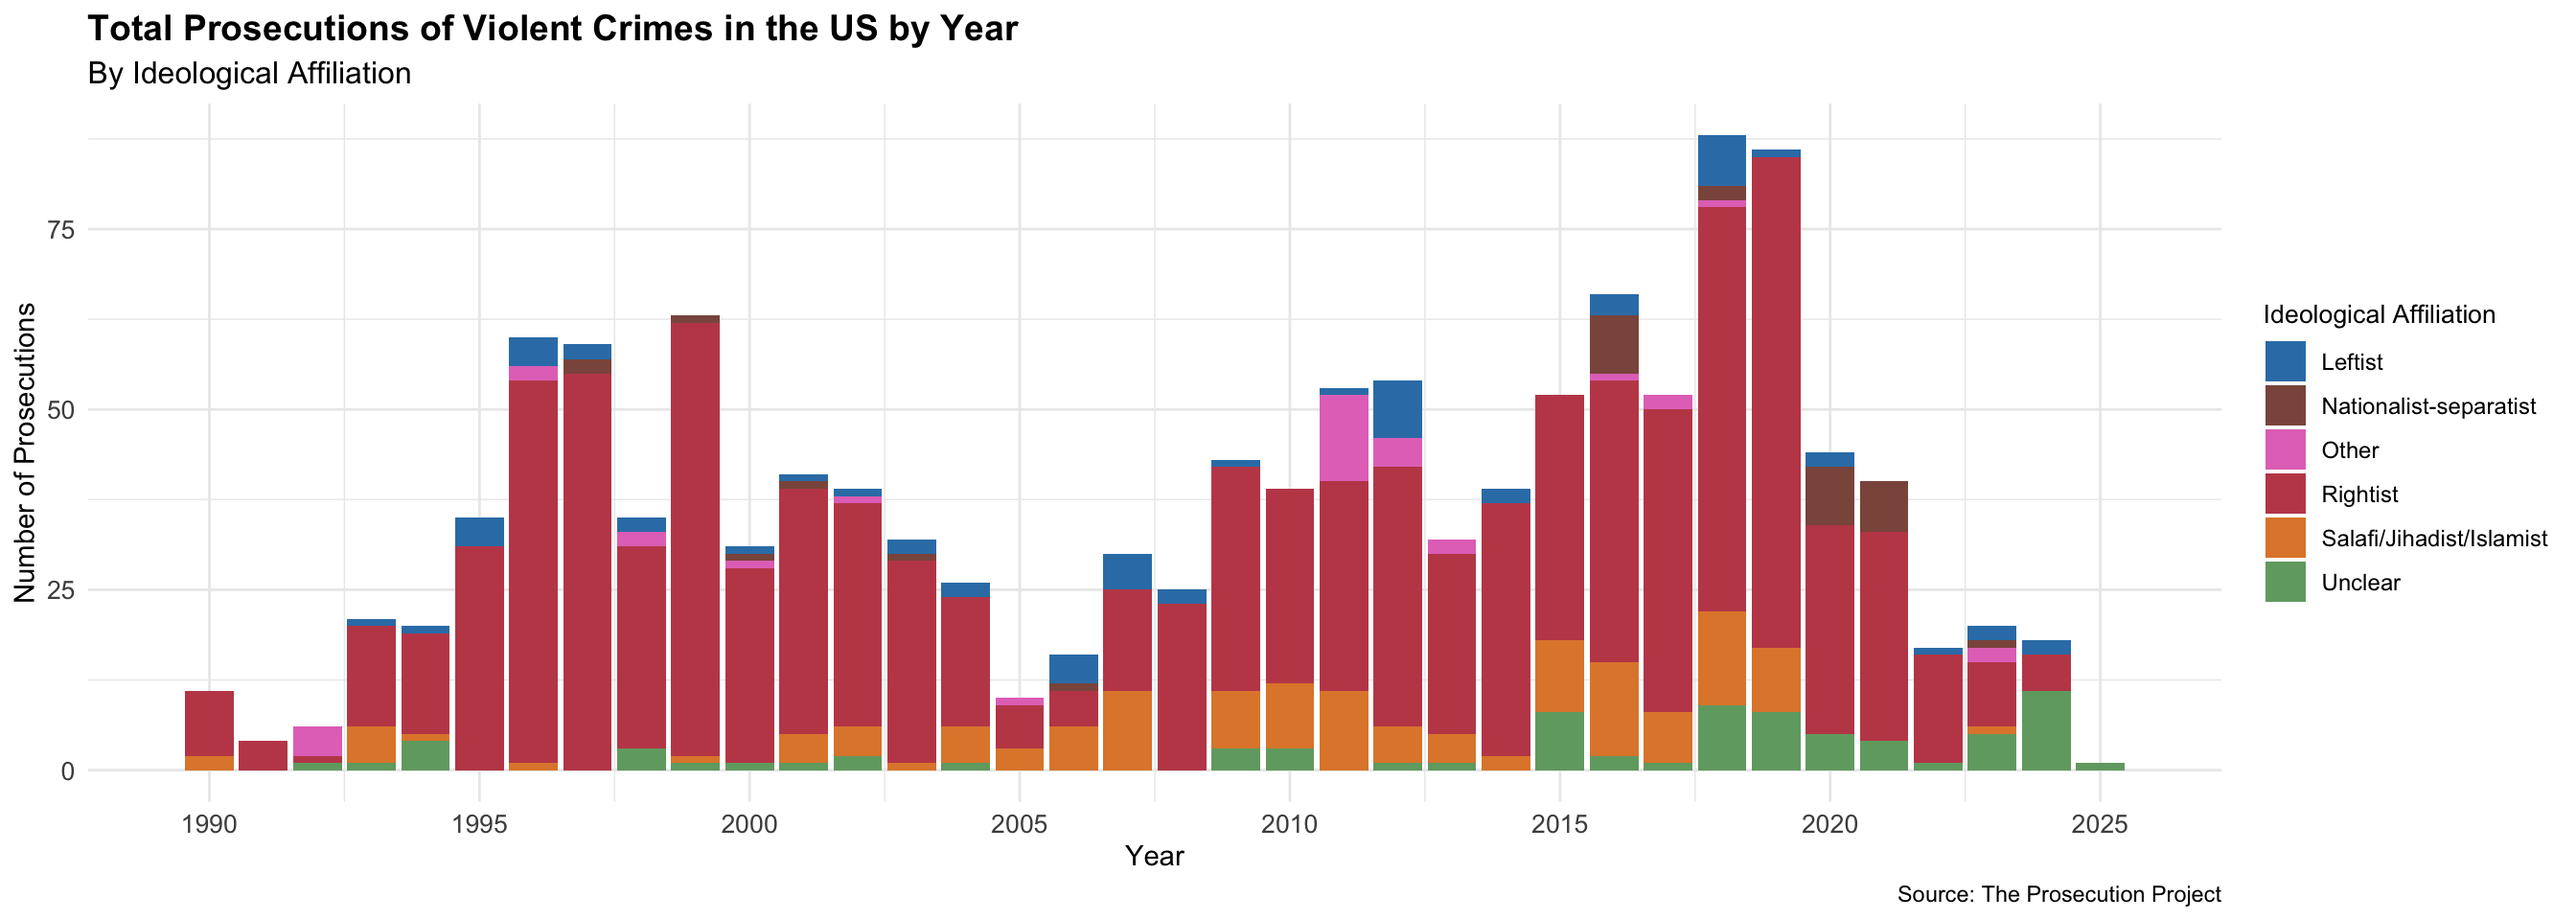
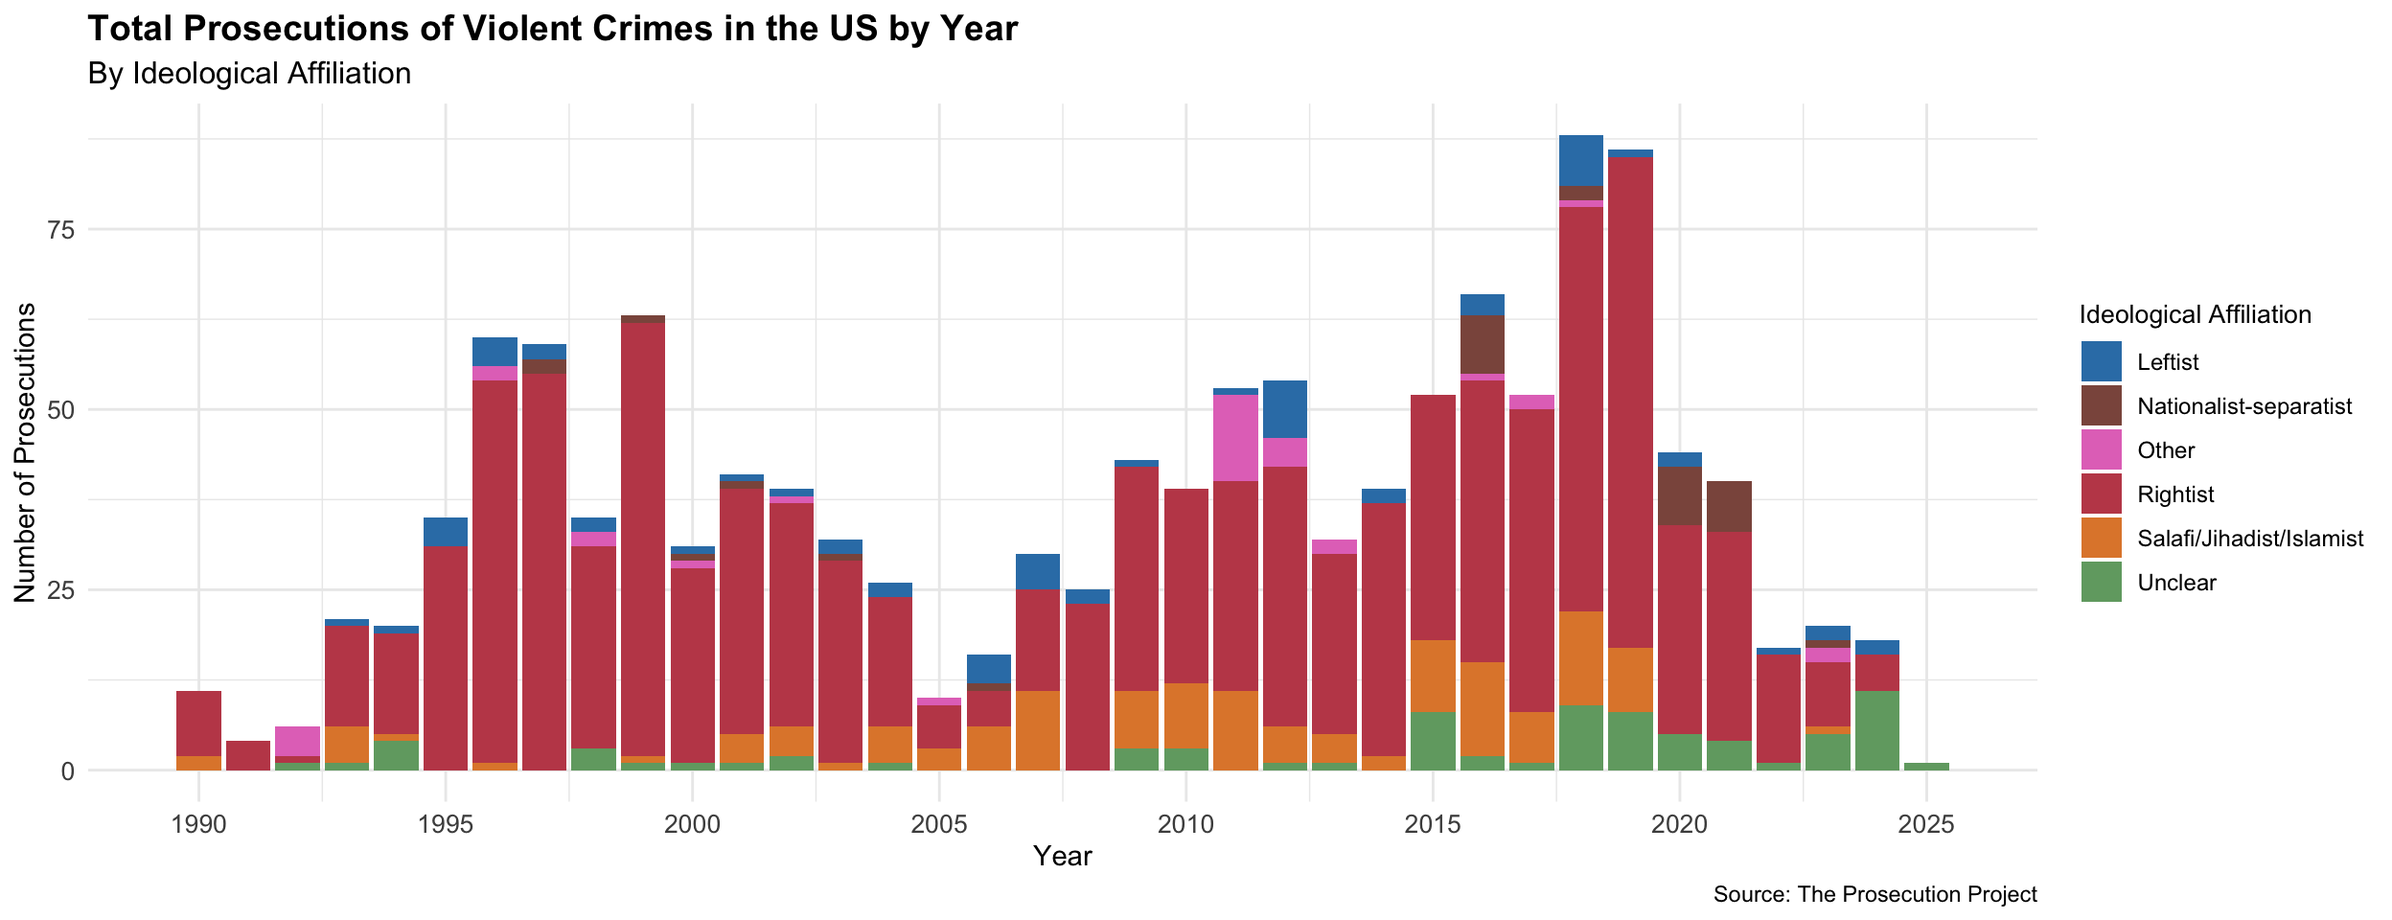
larger figure fonts

diff --git a/violence.html b/violence.html
@@ -351,7 +351,7 @@ pre > code.sourceCode > span > a:first-child::before { text-decoration: underlin
 <h1>Focus on Violence</h1>
 <section id="how-many-prosecutions-were-for-violent-vs.-non-violent-methods-by-ideological-affiliation" class="level3">
 <h3 class="anchored" data-anchor-id="how-many-prosecutions-were-for-violent-vs.-non-violent-methods-by-ideological-affiliation">How many prosecutions were for violent vs.&nbsp;non-violent methods, by ideological affiliation?</h3>
-<p>Then let’s filter for only those to make our visualizations</p>
+<p>Then let’s filter for only those to make our visualizations.</p>
 <div class="cell">
 <details class="code-fold">
 <summary>Code</summary>
@@ -470,7 +470,7 @@ pre > code.sourceCode > span > a:first-child::before { text-decoration: underlin
 <div class="cell-output-display">
 <div>
 <figure class="figure">
-<p><img src="violence_files/figure-html/unnamed-chunk-9-1.png" class="img-fluid figure-img" width="1152"></p>
+<p><img src="violence_files/figure-html/unnamed-chunk-9-1.png" class="img-fluid figure-img" width="1056"></p>
 </figure>
 </div>
 </div>
@@ -523,7 +523,7 @@ pre > code.sourceCode > span > a:first-child::before { text-decoration: underlin
 <div class="cell-output-display page-columns page-full">
 <div class="page-columns page-full">
 <figure class="figure page-columns page-full">
-<p class="page-columns page-full"><img src="violence_files/figure-html/unnamed-chunk-10-1.png" class="img-fluid figure-img column-page" width="1344"></p>
+<p class="page-columns page-full"><img src="violence_files/figure-html/unnamed-chunk-10-1.png" class="img-fluid figure-img column-page" width="1248"></p>
 </figure>
 </div>
 </div>
@@ -583,7 +583,7 @@ pre > code.sourceCode > span > a:first-child::before { text-decoration: underlin
 <div class="cell-output-display">
 <div>
 <figure class="figure">
-<p><img src="violence_files/figure-html/unnamed-chunk-11-1.png" class="img-fluid figure-img" width="1152"></p>
+<p><img src="violence_files/figure-html/unnamed-chunk-11-1.png" class="img-fluid figure-img" width="1056"></p>
 </figure>
 </div>
 </div>
